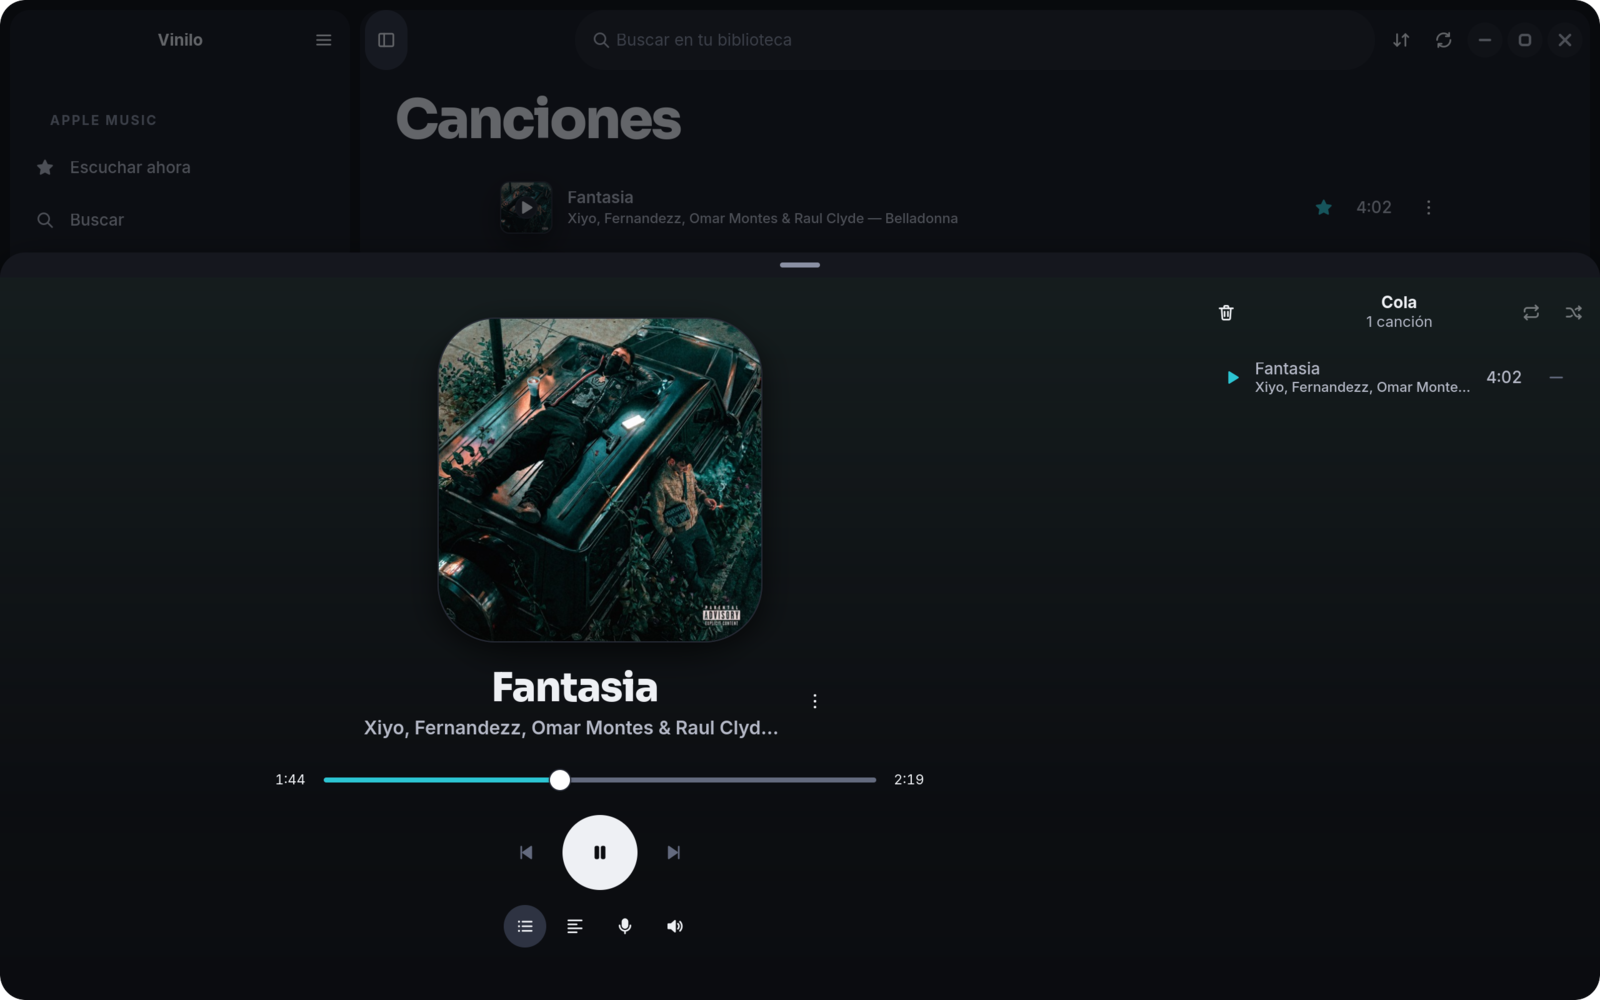
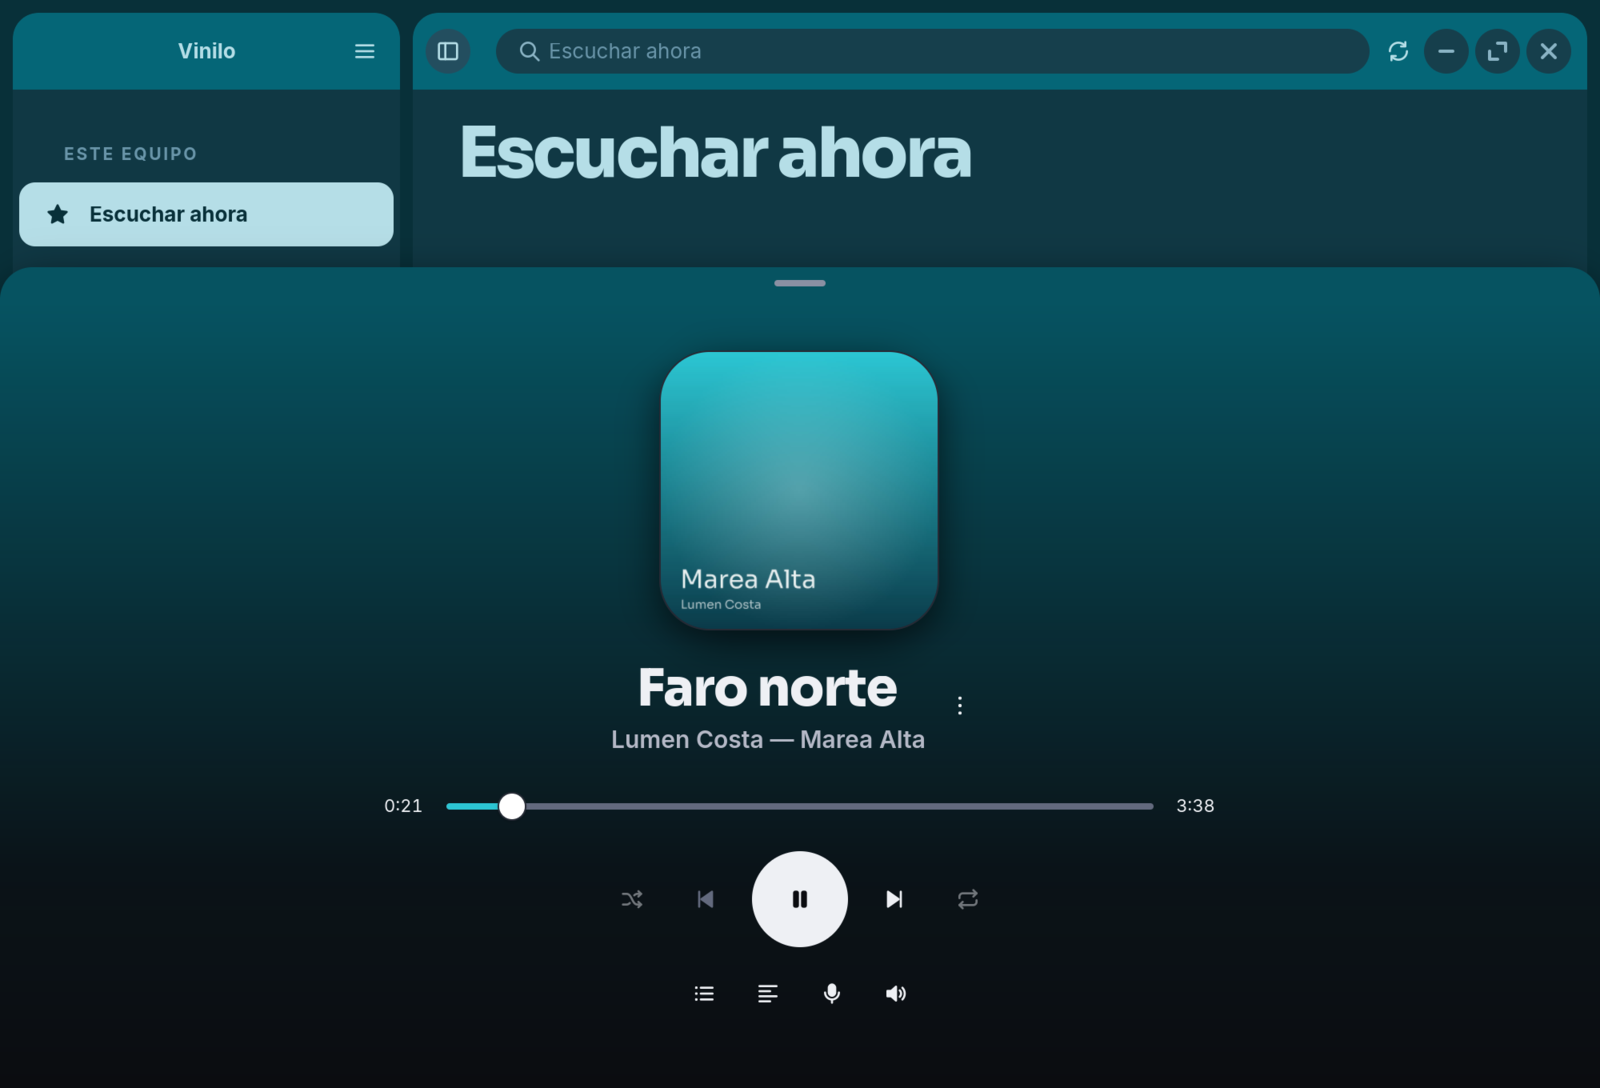
docs: new screenshots of Vinilo 2.0
The README shows the open player tinted with the cover's colour (dark), the
queue inside it (light), Preferences and About, taken from the window at 2x
with its corners see-through and saved as lossless WebP at 1600 px. The music
is a demo collection made for the shots: invented albums and covers, no
account.

diff --git a/docs/screenshots/README.md b/docs/screenshots/README.md
@@ -19,15 +19,18 @@ cp data/icons/hicolor/128x128/apps/dev.danielmiguelt.Vinilo.png docs/screenshots
 
 | File | Shows |
 | --- | --- |
-| `library.webp` | Listen Now — recently played, Made for You, the Now Playing bar |
-| `player.webp` | The expanded player: artwork, transport, the queue |
-| `playlist.webp` | A playlist page: Play and Shuffle, tracks |
-| `albums.webp` | An album page |
+| `player.webp` | The open player, dark theme: the cover's colour from the headers down |
+| `queue.webp` | The queue inside the open player, light theme |
+| `preferences.webp` | Preferences, dark theme |
+| `about.webp` | About, dark theme |
+
+The music in them is a demo collection: invented albums with covers drawn for the
+shots, so no account, real cover art or personal library appears.
 
 ## Taking them
 
-- **Dark theme**, since that is what the app looks like on a default GNOME
-  install and what every shot here uses.
+- **Dark theme** for most of them, since that is what the app looks like on a
+  default GNOME install; one light shot shows the other mode.
 - Capture the **window, not the screen** — `Alt`+`PrtSc` — with its rounded
   corners transparent around it: the window's own shape is part of the
   Nodalia look.

diff --git a/README.md b/README.md
@@ -61,14 +61,17 @@ closing the window does not stop the music.
 ## Preview
 
 <p align="center">
-  <img src="docs/screenshots/library.webp" width="48%" alt="Listen Now in Vinilo 2.0: islands, Sora titles and NDL icons">
-  <img src="docs/screenshots/player.webp" width="48%" alt="Expanded player with the queue">
+  <img src="docs/screenshots/player.webp" width="48%" alt="The open player, tinted with the cover's colour from the headers down, in the dark theme">
+  <img src="docs/screenshots/queue.webp" width="48%" alt="The queue inside the open player, in the light theme">
 </p>
 
 <p align="center">
-  <img src="docs/screenshots/playlist.webp" width="48%" alt="Playlist page">
-  <img src="docs/screenshots/albums.webp" width="48%" alt="An album page">
+  <img src="docs/screenshots/preferences.webp" width="48%" alt="Preferences: language, source, theme, accent and window controls">
+  <img src="docs/screenshots/about.webp" width="48%" alt="About Vinilo">
 </p>
+
+<sub>The music in these screenshots is a demo collection made for them: invented albums and
+covers, no account.</sub>
 
 ## Why Vinilo
 
